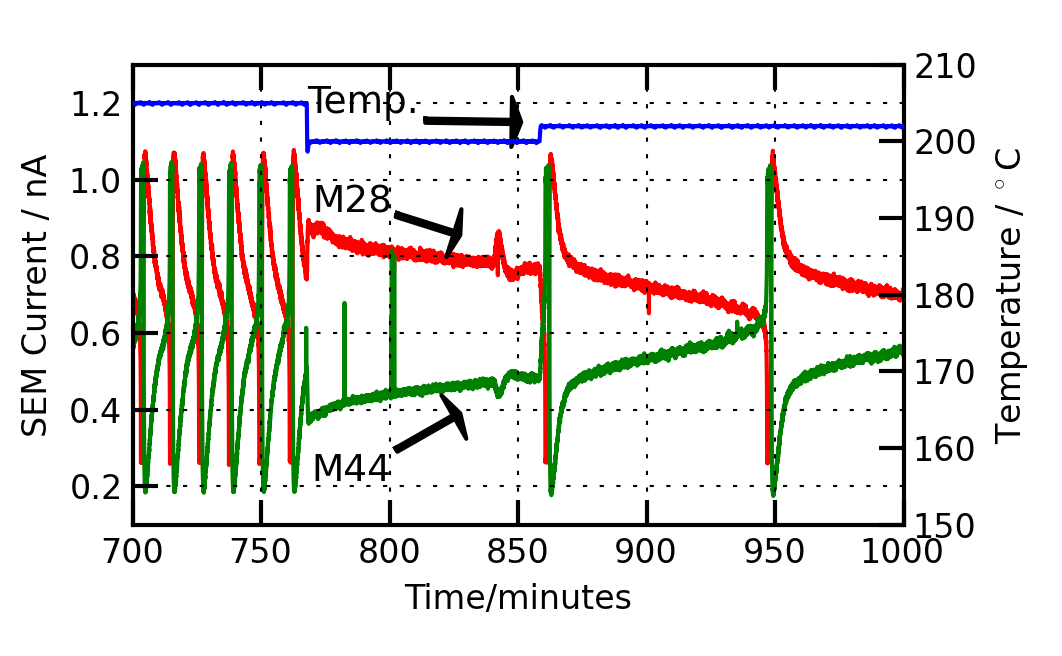
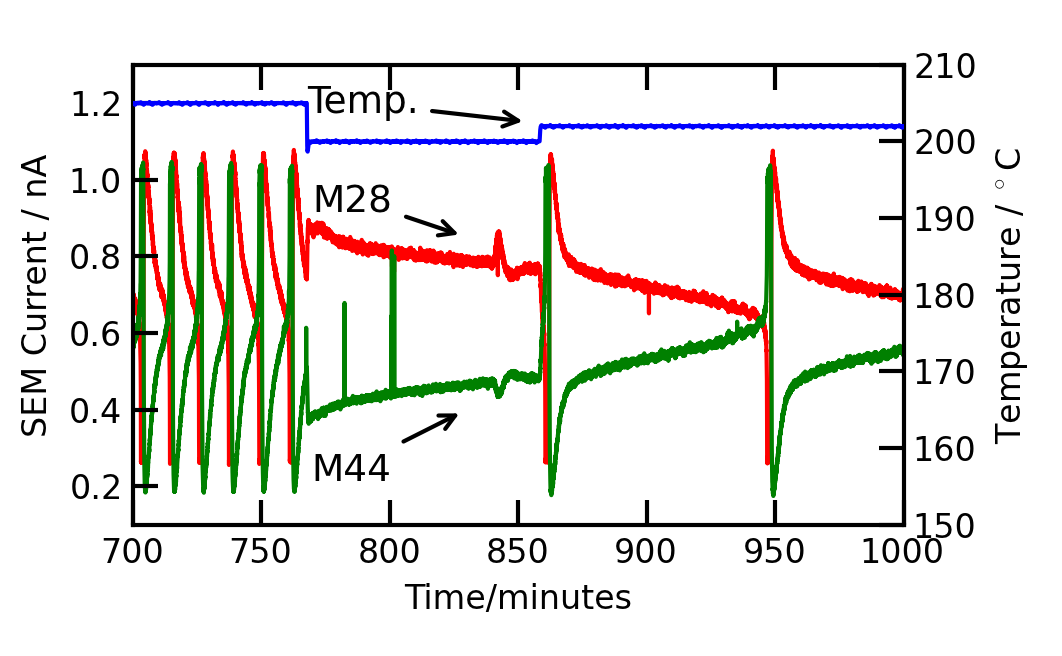
Lots of work on the figures

Changed region(s): [[0.404, 0.1524, 0.4972, 0.2134], [0.3729, 0.6098, 0.4661, 0.7012], [0.3729, 0.3049, 0.435, 0.3963]]

diff --git a/python_figures/temperature_dependence_supplemental.py b/python_figures/temperature_dependence_supplemental.py
@@ -14,15 +14,15 @@ cursor = db.cursor()
 
 data = {}
 #Mass28
-cursor.execute("SELECT x/60000,y FROM xy_values_microreactorNG where measurement = 572")
+cursor.execute("SELECT x/60000,y FROM xy_values_microreactor where measurement = 6303")
 data['M28'] = np.array(cursor.fetchall())
 
 #Mass44
-cursor.execute("SELECT x/60000,y FROM xy_values_microreactorNG where measurement = 573")
+cursor.execute("SELECT x/60000,y FROM xy_values_microreactor where measurement = 6305")
 data['M44'] =  np.array(cursor.fetchall())
 
 #Temperature
-cursor.execute("SELECT x/60000,y FROM xy_values_microreactorNG where measurement = 578")
+cursor.execute("SELECT x/60000,y FROM xy_values_microreactor where measurement = 6309")
 data['TEMPERATURE'] = np.array(cursor.fetchall())
 
 
@@ -39,19 +39,19 @@ fig.set_size_inches(fig_width,fig_height)
 axis = fig.add_subplot(1,1,1)
 axis.plot(data['M28'][:,0], data['M28'][:,1]*1e9, 'r-')
 axis.plot(data['M44'][:,0], data['M44'][:,1]*1e9, 'g-')
-axis.set_ylim(0.1,1.3)
+axis.set_ylim(0,8)
 axis2 = axis.twinx()
 axis2.plot(data['TEMPERATURE'][:,0], data['TEMPERATURE'][:,1], 'b-')
-axis2.set_ylim(150,210)
-#axis2.set_yticks((170,180,190,200))
-axis.set_xlim(700,1000)
+axis2.set_ylim(140,225)
+axis2.set_yticks((190,200,210,220))
+axis.set_xlim(30,250)
 axis.grid(False)    
 
 arrow = dict(facecolor='black',arrowstyle='->')
 #arrow = dict(facecolor='black', shrink=0.085,width=1)
-axis.annotate('M28', xy=(830, 0.85),  xycoords='data', xytext=(800, 0.95), textcoords='data', arrowprops=arrow, horizontalalignment='right', verticalalignment='center',fontsize=9,)
-axis.annotate('M44', xy=(830, 0.4),  xycoords='data', xytext=(800, 0.25), textcoords='data', arrowprops=arrow, horizontalalignment='right', verticalalignment='center',fontsize=9,)
-axis.annotate('Temp.', xy=(855, 1.15),  xycoords='data', xytext=(810, 1.2), textcoords='data', arrowprops=arrow, horizontalalignment='right', verticalalignment='center',fontsize=9,)
+axis.annotate('M28', xy=(80, 3.5),  xycoords='data', xytext=(120, 4.5), textcoords='data', arrowprops=arrow, horizontalalignment='right', verticalalignment='center',fontsize=9,)
+axis.annotate('M44', xy=(80, 1.2),  xycoords='data', xytext=(120, 2.25), textcoords='data', arrowprops=arrow, horizontalalignment='right', verticalalignment='center',fontsize=9,)
+axis.annotate('Temp.', xy=(70, 5.7),  xycoords='data', xytext=(120, 7), textcoords='data', arrowprops=arrow, horizontalalignment='right', verticalalignment='center',fontsize=9,)
 
 axis.tick_params(direction='in', length=6, width=1, colors='k',labelsize=8,axis='both',pad=3)
 axis2.tick_params(direction='in', length=6, width=1, colors='k',labelsize=8,axis='both',pad=3)
@@ -61,5 +61,5 @@ axis2.set_ylabel('Temperature / $^\circ$C', fontsize=8)
 axis.set_xlabel('Time/minutes', fontsize=8)
 
 #plt.tight_layout()
-#plt.show()
-plt.savefig('../temperature_dependence.png',dpi=300)
+plt.show()
+plt.savefig('../temperature_dependence_supplemental.png',dpi=300)

diff --git a/python_figures/initial_treatment.py b/python_figures/initial_treatment.py
@@ -54,19 +54,21 @@ p = axis.axvspan(710, 740, facecolor='yellow', alpha=0.35)
 axis.plot(data['M28'][:,0], data['M28'][:,1]*1e9, 'r-')
 axis.plot(data['M44'][:,0], data['M44'][:,1]*1e9, 'g-')
 axis.set_ylim(0,8)
+axis.set_yticks((2,4,6))
 axis2 = axis.twinx()
 axis2.plot(data['TEMPERATURE'][:,0], data['TEMPERATURE'][:,1], 'b-')
 axis2.set_ylim(0,300)
-#axis2.set_yticks((170,180,190,200))
+axis2.set_yticks((50,150,250))
 axis.set_xlim(100,800)
-axis.grid(True)    
+axis.grid(False)    
 
 
 
-arrow = dict(facecolor='black', shrink=0.085,width=1)
+#arrow = dict(facecolor='black', shrink=0.085,width=1)
+arrow = dict(facecolor='black',arrowstyle='->')
 axis.annotate('M28', xy=(260, 2.6),  xycoords='data', xytext=(185, 3.5), textcoords='data', arrowprops=arrow, horizontalalignment='right', verticalalignment='center',fontsize=9,)
-axis.annotate('M44', xy=(460, 4.4),  xycoords='data', xytext=(390, 5.6), textcoords='data', arrowprops=arrow, horizontalalignment='right', verticalalignment='center',fontsize=9,)
-axis.annotate('Temp.', xy=(440, 6.8),  xycoords='data', xytext=(270, 7.2), textcoords='data', arrowprops=arrow, horizontalalignment='right', verticalalignment='center',fontsize=9,)
+axis.annotate('M44', xy=(440, 4.4),  xycoords='data', xytext=(390, 5.6), textcoords='data', arrowprops=arrow, horizontalalignment='right', verticalalignment='center',fontsize=9,)
+axis.annotate('Temp.', xy=(440, 6.6),  xycoords='data', xytext=(270, 7.2), textcoords='data', arrowprops=arrow, horizontalalignment='right', verticalalignment='center',fontsize=9,)
 
 axis.tick_params(direction='in', length=6, width=1, colors='k',labelsize=8,axis='both',pad=3)
 axis2.tick_params(direction='in', length=6, width=1, colors='k',labelsize=8,axis='both',pad=3)
@@ -82,6 +84,7 @@ p = axis.axvspan(460, 490, facecolor='red', alpha=0.25)
 axis.plot(data['M28'][:,0], data['M28'][:,1]*1e9, 'r-')
 axis.plot(data['M44'][:,0], data['M44'][:,1]*1e9, 'g-')
 axis.set_ylim(0,6)
+axis.set_yticks((1,3,5))
 axis2 = axis.twinx()
 axis2.plot(data['TEMPERATURE'][:,0], data['TEMPERATURE'][:,1], 'b-')
 axis2.set_ylim(0,300)
@@ -95,7 +98,7 @@ axis.set_xlabel('Time/minutes', fontsize=8)
 axis.tick_params(direction='in', length=6, width=1, colors='k',labelsize=8,axis='both',pad=3)
 axis2.tick_params(direction='in', length=6, width=1, colors='k',labelsize=8,axis='both',pad=3)
 
-axis.grid(True)
+axis.grid(False)
 
 axis = plt.subplot(gs[1,1])
 #axis = fig.add_subplot(2,2,1)
@@ -106,6 +109,7 @@ axis.set_ylim(0,6)
 axis2 = axis.twinx()
 axis2.plot(data['TEMPERATURE'][:,0], data['TEMPERATURE'][:,1], 'b-')
 axis2.set_ylim(0,300)
+axis2.set_yticks((50,150,250))
 axis.set_xticks((715,725,735))
 axis.set_xlim(710,740)
 axis.set_yticks(())
@@ -116,7 +120,7 @@ axis2.tick_params(direction='in', length=6, width=1, colors='k',labelsize=8,axis
 
 
 
-axis.grid(True)
+axis.grid(False)
 
 #plt.tight_layout()
 plt.show()

diff --git a/python_figures/oscillations_gas_dependence.py b/python_figures/oscillations_gas_dependence.py
@@ -1,9 +1,10 @@
 import matplotlib
 #matplotlib.use('svg')
-#matplotlib.use('Agg')
+matplotlib.use('Agg')
 import matplotlib.pyplot as plt
 import numpy as np
 import MySQLdb
+import math
 
 try:
     db = MySQLdb.connect(host="servcinf", user="cinf_reader",passwd = "cinf_reader", db = "cinfdata")
@@ -41,8 +42,17 @@ for row in data['CO_FLOW']:
 
 steps = len(flow_sections)
 
-
 fig = plt.figure()
+fig.subplots_adjust(bottom=0.05) # Make room for x-label
+fig.subplots_adjust(right=0.85) # Make room for right y-label
+#ratio = 0.61803398              # Golden mean
+ratio = 2
+fig_width = 13
+fig_width = fig_width /2.54     # width in cm converted to inches
+fig_height = fig_width*ratio
+fig.set_size_inches(fig_width,fig_height)
+
+
 axis_array = []
 axis2_array = []
 
@@ -50,20 +60,29 @@ for i in range(0,steps-1):
     axis_array.append(fig.add_subplot((steps-1)/2,2,i+1))
     axis_array[i].plot(data['M28'][:,0], data['M28'][:,1]*1e9, 'r-')
     axis_array[i].plot(data['M44'][:,0], data['M44'][:,1]*1e9, 'b-')
-    axis_array[i].set_ylim(0,0.1*(i+1)*1.85)
+    #axis_array[i].set_ylim(0,0.1*(i+1)*1.85)
+    axis_array[i].set_ylim(0,1.5)
+    axis_array[i].set_yticks((0.25,0.5,0.75,1,1.25))
     axis2_array.append(axis_array[i].twinx())
     axis2_array[i].plot(data['CO_FLOW'][:,0], data['CO_FLOW'][:,1]/(4+data['CO_FLOW'][:,1]), 'k-')
     axis2_array[i].set_ylim(0.01,0.25)
     
-    axis_array[i].set_xlim(flow_sections[i],flow_sections[i+1])
-    axis_array[i].tick_params(direction='in', length=6, width=2, colors='k',labelsize=14,axis='both',pad=5)
-    axis2_array[i].tick_params(direction='in', length=6, width=2, colors='k',labelsize=14,axis='y',pad=5)
+    if i%2 == 1:
+        axis_array[i].set_yticks(())    
+    else:
+        axis2_array[i].set_yticks(())    
     
-axis_array[4].set_ylabel('SEM Current / nA', fontsize=20)
-axis2_array[4].set_ylabel('CO/O2 Ratio', fontsize=20)
-axis_array[4].set_xlabel('Time/h', fontsize=20)
+    st = math.ceil(flow_sections[i])
+    axis_array[i].set_xticks((st,st+1,st+2,st+3))
+    axis_array[i].set_xlim(flow_sections[i],flow_sections[i+1])
+    axis_array[i].tick_params(direction='in', length=6, width=2, colors='k',labelsize=8,axis='both',pad=5)
+    axis2_array[i].tick_params(direction='in', length=6, width=2, colors='k',labelsize=8,axis='y',pad=5)
+    
+#axis_array[4].set_ylabel('SEM Current / nA', fontsize=8)
+#axis2_array[4].set_ylabel('CO/O2 Ratio', fontsize=8)
+#axis_array[4].set_xlabel('Time/h', fontsize=8)
 
 
 #plt.tight_layout()
-plt.show()
-#plt.savefig('../svg_figures/oscillations_gas_dependence.svg')
+#plt.show()
+plt.savefig('../oscillations_gas_dependence_supplemental.png',dpi=300)

diff --git a/python_figures/oscillations_gas_dependence_summary.py b/python_figures/oscillations_gas_dependence_summary.py
@@ -1,6 +1,6 @@
 import matplotlib
 #matplotlib.use('svg')
-#matplotlib.use('Agg')
+matplotlib.use('Agg')
 import matplotlib.pyplot as plt
 import numpy as np
 import MySQLdb
@@ -71,27 +71,31 @@ periods.append(0)
 for i in range(1,len(oscillations)):
     periods.append(oscillations[i]-oscillations[i-1])
 
+
 fig = plt.figure()
+fig.subplots_adjust(bottom=0.2) # Make room for x-label
+ratio = 0.61803398              # Golden mean
+fig_width = 9
+fig_width = fig_width /2.54     # width in cm converted to inches
+fig_height = fig_width*ratio
+fig.set_size_inches(fig_width,fig_height)
+
 
 print len(oscillations)
 print len(periods)
 
 axis = fig.add_subplot(1,1,1)
-axis.plot(oscillations, periods, 'bo')
+axis.plot(oscillations, periods, 'b.')
 #axis.plot(data['M28'][:,0], data['M28'][:,1], 'r-')
 #axis.plot(data['M44'][:,0], data['M44'][:,1], 'b-')
-#axis.set_ylim(0,7)
-#axis.set_xlim(0,500)
+axis.set_ylim(0,50)
+axis.set_xlim(0,3100)
 
-axis.tick_params(direction='in', length=6, width=2, colors='k',labelsize=14,axis='both',pad=5)
+axis.tick_params(direction='in', length=6, width=2, colors='k',labelsize=8,axis='both',pad=3)
 axis.grid(True)    
 
-#axis.set_ylabel('SEM Current / nA', fontsize=20)
-axis.set_ylabel('Oscillations periods / minutes', fontsize=20)
-axis.set_xlabel('Time/minutes', fontsize=20)
-
-
-
+axis.set_ylabel('Oscillations periods / minutes', fontsize=8)
+axis.set_xlabel('Time/minutes', fontsize=8)
 
 
 
@@ -100,7 +104,7 @@ axis.set_xlabel('Time/minutes', fontsize=20)
 
 #plt.tight_layout()
 plt.show()
-#plt.savefig('../svg_figures/oscillations_gas_dependence.svg')
+plt.savefig('../oscillations_gas_dependence_supplemental.png',dpi=300)
 
 
 

diff --git a/python_figures/duty_cycles_long_measurement.py b/python_figures/duty_cycles_long_measurement.py
@@ -4,7 +4,7 @@
 
 import matplotlib
 #matplotlib.use('svg')
-#matplotlib.use('Agg')
+matplotlib.use('Agg')
 import matplotlib.pyplot as plt
 import numpy as np
 import MySQLdb
@@ -66,24 +66,30 @@ for i in range(1,len(oscillations)):
 #print len(periods)
 
 fig = plt.figure()
+fig.subplots_adjust(bottom=0.2) # Make room for x-label
+ratio = 0.61803398              # Golden mean
+fig_width = 9
+fig_width = fig_width /2.54     # width in cm converted to inches
+fig_height = fig_width*ratio
+fig.set_size_inches(fig_width,fig_height)
 
 axis = fig.add_subplot(1,1,1)
-axis.plot(oscillations, m28_average, 'ro')
-axis.plot(oscillations, m44_average, 'bo')
+axis.plot(oscillations, m28_average, 'r-')
+axis.plot(oscillations, m44_average, 'b-')
 #axis.plot(data['M28'][:,0], data['M28'][:,1], 'r-')
 #axis.plot(data['M44'][:,0], data['M44'][:,1], 'b-')
 #axis.set_ylim(0,7)
 #axis.set_xlim(0,500)
 
-axis.tick_params(direction='in', length=6, width=2, colors='k',labelsize=14,axis='both',pad=5)
+axis.tick_params(direction='in', length=6, width=2, colors='k',labelsize=8,axis='both',pad=5)
 axis.grid(True)    
 
 #axis.set_ylabel('SEM Current / nA', fontsize=20)
-axis.set_ylabel('Integrated charge (a.u.) / oscillation', fontsize=20)
-axis.set_xlabel('Time/minutes', fontsize=20)
+axis.set_ylabel('Integrated charge (a.u.) / oscil.', fontsize=8)
+axis.set_xlabel('Time/minutes', fontsize=8)
 
 
 
 #plt.tight_layout()
 plt.show()
-#plt.savefig('../summary_of_long_measurement.png')
+plt.savefig('../duty_cycles_long_measurement_supplemental.png',dpi=300)

diff --git a/python_figures/summary_of_long_measurement.py b/python_figures/summary_of_long_measurement.py
@@ -59,20 +59,22 @@ fig.set_size_inches(fig_width,fig_height)
 
 axis = fig.add_subplot(1,1,1)
 axis.plot(oscillations, periods, 'b.')
+axis.plot([750,6000],[1.8,17],'k-')
+axis.plot([750,5000],[5,43],'k-')
 #axis.plot(data['M28'][:,0], data['M28'][:,1], 'r-')
 #axis.plot(data['M44'][:,0], data['M44'][:,1], 'b-')
 #axis.set_ylim(0,7)
 #axis.set_xlim(0,500)
 
-axis.tick_params(direction='in', length=6, width=2, colors='k',labelsize=10,axis='both',pad=3)
+axis.tick_params(direction='in', length=6, width=2, colors='k',labelsize=8,axis='both',pad=3)
 axis.grid(True)    
 
 #axis.set_ylabel('SEM Current / nA', fontsize=20)
-axis.set_ylabel('Oscil. period / minutes', fontsize=10)
-axis.set_xlabel('Time/minutes', fontsize=10)
+axis.set_ylabel('Oscil. period / minutes', fontsize=8)
+axis.set_xlabel('Time/minutes', fontsize=8)
 
 
 
 #plt.tight_layout()
-#plt.show()
+plt.show()
 plt.savefig('../summary_of_long_measurement.png',dpi=300)

diff --git a/python_figures/single_full_oscillation.py b/python_figures/single_full_oscillation.py
@@ -48,7 +48,8 @@ axis2.set_yticks((170,180,190,200))
 axis.set_xlim(1001,1133)
 axis.grid(True)    
 
-arrow = dict(facecolor='black', shrink=0.085,width=1)
+#arrow = dict(facecolor='black', shrink=0.085,width=1)
+arrow = dict(facecolor='black',arrowstyle='->')
 axis.annotate('M28', xy=(1040, 0.83),  xycoords='data', xytext=(1058, 0.93), textcoords='data', arrowprops=arrow, horizontalalignment='right', verticalalignment='center',fontsize=9,)
 axis.annotate('M44', xy=(1040, 0.41),  xycoords='data', xytext=(1058, 0.27), textcoords='data', arrowprops=arrow, horizontalalignment='right', verticalalignment='center',fontsize=9,)
 axis.annotate('Temp.', xy=(1070, 1.08),  xycoords='data', xytext=(1095, 0.93), textcoords='data', arrowprops=arrow, horizontalalignment='right', verticalalignment='center',fontsize=9,)

diff --git a/python_figures/extracts_from_very_long_oscillation.py b/python_figures/extracts_from_very_long_oscillation.py
@@ -60,7 +60,7 @@ for i in range(0,3):
     
     axis_array[i].tick_params(direction='in', length=6, width=1, colors='k',labelsize=8,axis='both',pad=2)
     axis2_array[i].tick_params(direction='in', length=6, width=1, colors='k',labelsize=8,axis='y',pad=2)
-    axis_array[i].grid(True)    
+    axis_array[i].grid(False)    
 
 axis_array[1].set_ylabel('SEM Current / nA', fontsize=8)
 axis2_array[1].set_ylabel('Temperature', fontsize=8)
